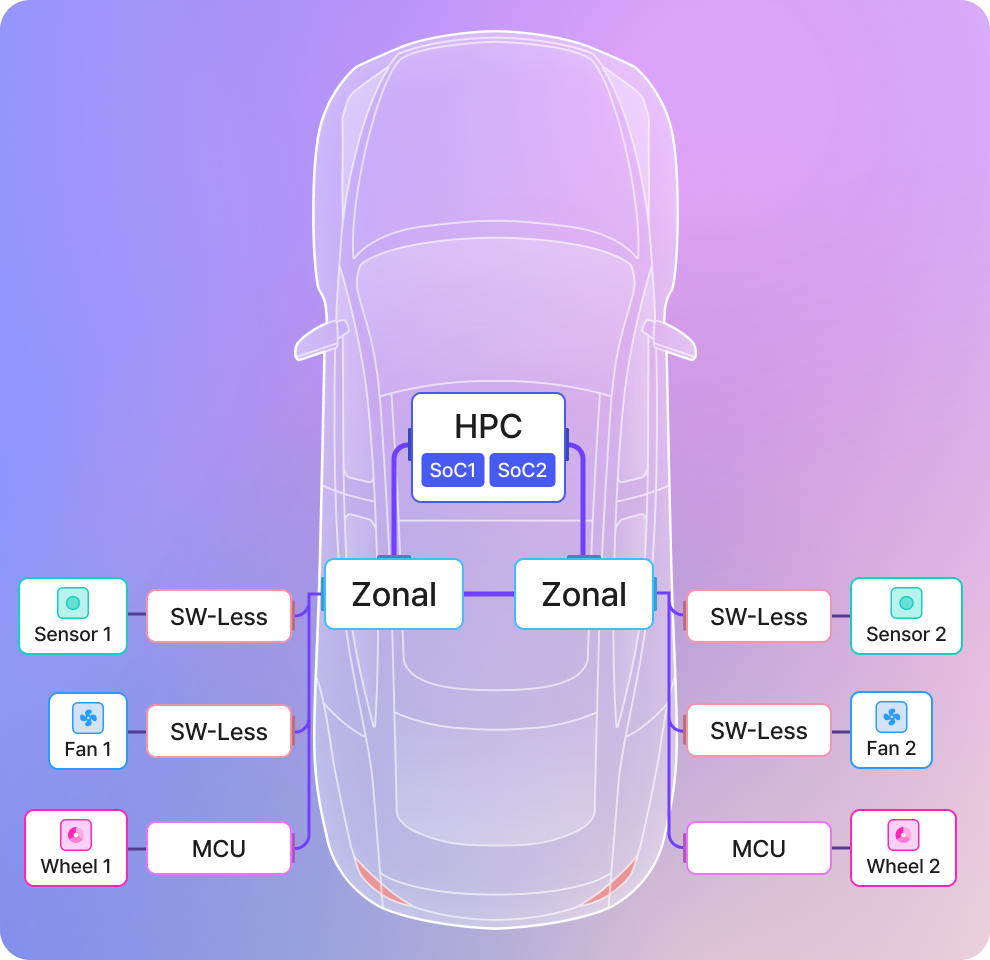
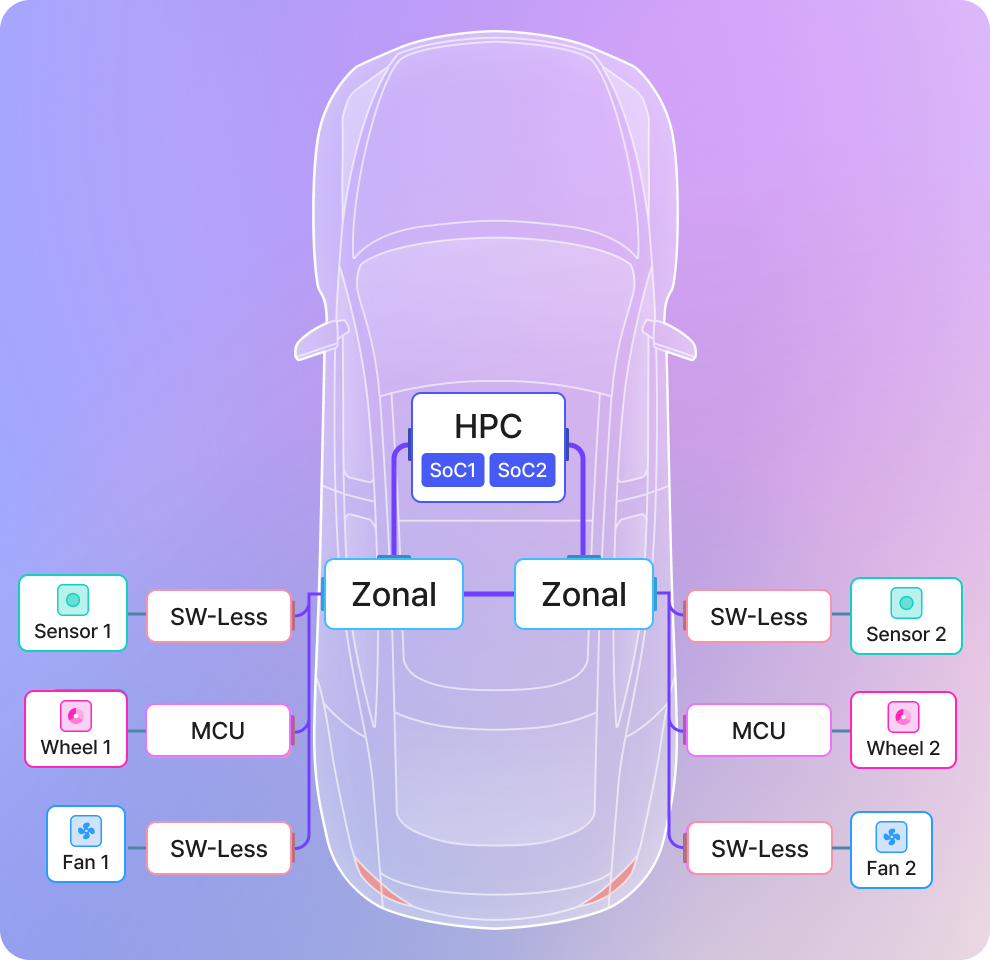
change position wheesl & fans

diff --git a/src/components/VehicleArea.css b/src/components/VehicleArea.css
@@ -119,14 +119,33 @@
   border-radius: 50%;
 }
 
-#vehicle-area .mcu-1 {
-  left: 272px;
-  top: 811px;
+#vehicle-area .mcu-status-black {
+  position: absolute;
+  width: 30px;
+  height: 30px;
+
+  background: #000000;
+  border-radius: 50%;
 }
 
-#vehicle-area .mcu-2 {
-  left: 812px;
-  top: 811px;
+#vehicle-area .mcu-less-1-rtt {
+  position: absolute;
+  /* width: 56px; */
+  height: 22px;
+  left: 191px;
+  top: 563px;
+
+  font-family: 'Pretendard';
+  font-style: normal;
+  font-weight: 500;
+  font-size: 24px;
+  line-height: 22px;
+  /* identical to box height, or 92% */
+  display: flex;
+  align-items: center;
+  text-align: center;
+
+  color: #1d1d1d;
 }
 
 #vehicle-area .mcu-less-1 {
@@ -134,17 +153,137 @@
   top: 579px;
 }
 
+#vehicle-area .mcu-less-2-rtt {
+  /* 65us */
+
+  position: absolute;
+  /* width: 56px; */
+  height: 22px;
+  left: 731px;
+  top: 561px;
+
+  font-family: 'Pretendard';
+  font-style: normal;
+  font-weight: 500;
+  font-size: 24px;
+  line-height: 22px;
+  /* identical to box height, or 92% */
+  display: flex;
+  align-items: center;
+  text-align: center;
+
+  color: #1d1d1d;
+}
+
 #vehicle-area .mcu-less-2 {
   left: 812px;
   top: 579px;
 }
 
-#vehicle-area .mcu-less-3 {
+#vehicle-area .mcu-1-rtt {
+  /* 65us */
+
+  position: absolute;
+  /* width: 56px; */
+  height: 22px;
+  left: 191px;
+  top: 679px;
+
+  font-family: 'Pretendard';
+  font-style: normal;
+  font-weight: 500;
+  font-size: 24px;
+  line-height: 22px;
+  /* identical to box height, or 92% */
+  display: flex;
+  align-items: center;
+  text-align: center;
+
+  color: #1d1d1d;
+}
+
+#vehicle-area .mcu-1 {
   left: 272px;
   top: 694px;
 }
 
-#vehicle-area .mcu-less-4 {
+#vehicle-area .mcu-2-rtt {
+  /* 65us */
+
+  position: absolute;
+  /* width: 56px; */
+  height: 22px;
+  left: 731px;
+  top: 677px;
+
+  font-family: 'Pretendard';
+  font-style: normal;
+  font-weight: 500;
+  font-size: 24px;
+  line-height: 22px;
+  /* identical to box height, or 92% */
+  display: flex;
+  align-items: center;
+  text-align: center;
+
+  color: #1d1d1d;
+}
+
+#vehicle-area .mcu-2 {
   left: 812px;
   top: 693px;
+}
+
+#vehicle-area .mcu-less-3-rtt {
+  /* 65us */
+
+  position: absolute;
+  /* width: 56px; */
+  height: 22px;
+  left: 191px;
+  top: 795px;
+
+  font-family: 'Pretendard';
+  font-style: normal;
+  font-weight: 500;
+  font-size: 24px;
+  line-height: 22px;
+  /* identical to box height, or 92% */
+  display: flex;
+  align-items: center;
+  text-align: center;
+
+  color: #1d1d1d;
+}
+
+#vehicle-area .mcu-less-3 {
+  left: 272px;
+  top: 811px;
+}
+
+#vehicle-area .mcu-less-4-rtt {
+  /* 65us */
+
+  position: absolute;
+  /* width: 56px; */
+  height: 22px;
+  left: 731px;
+  top: 793px;
+
+  font-family: 'Pretendard';
+  font-style: normal;
+  font-weight: 500;
+  font-size: 24px;
+  line-height: 22px;
+  /* identical to box height, or 92% */
+  display: flex;
+  align-items: center;
+  text-align: center;
+
+  color: #1d1d1d;
+}
+
+#vehicle-area .mcu-less-4 {
+  left: 812px;
+  top: 811px;
 }

diff --git a/src/pages/RuntimeMonitoring.tsx b/src/pages/RuntimeMonitoring.tsx
@@ -4,6 +4,11 @@ import { getNetworkInfo } from '../utils/RestApi';
 import './RuntimeMonitoring.css';
 import { useEffect, useRef, useState } from 'react';
 
+interface MCUStatus {
+  status: 'on' | 'off';
+  rtt: number;
+}
+
 interface RuntimeMonitoringProps {}
 
 const RuntimeMonitoring = ({}: RuntimeMonitoringProps) => {
@@ -23,6 +28,14 @@ const RuntimeMonitoring = ({}: RuntimeMonitoringProps) => {
     title: 'Sync Offset 2',
     value: Array(30).fill(0),
   });
+  const [mcuStatus, setMcuStatus] = useState<MCUStatus[]>([
+    { status: 'off', rtt: 0 }, // MCULess1
+    { status: 'off', rtt: 0 }, // MCULess2
+    { status: 'off', rtt: 0 }, // MCU1
+    { status: 'off', rtt: 0 }, // MCU2
+    { status: 'off', rtt: 0 }, // MCULess3
+    { status: 'off', rtt: 0 }, // MCULess4
+  ]);
   const timerRef = useRef<number | null>(null);
 
   const pushValue = (arr: number[], newValue: number) => {
@@ -41,6 +54,34 @@ const RuntimeMonitoring = ({}: RuntimeMonitoringProps) => {
         const offset1 = response?.NetworkInfo.Graph?.MCU1?.TimesyncOffset ?? 0;
         const offset2 = response?.NetworkInfo.Graph?.MCU2?.TimesyncOffset ?? 0;
 
+        // MCU 상태 및 RTT 정보 업데이트
+        const newMcuStatus: MCUStatus[] = [
+          {
+            status: response?.NetworkInfo.RttInfo?.MCULess1?.status ?? 'off',
+            rtt: response?.NetworkInfo.RttInfo?.MCULess1?.rtt ?? 0,
+          },
+          {
+            status: response?.NetworkInfo.RttInfo?.MCULess2?.status ?? 'off',
+            rtt: response?.NetworkInfo.RttInfo?.MCULess2?.rtt ?? 0,
+          },
+          {
+            status: response?.NetworkInfo.RttInfo?.MCU1?.status ?? 'off',
+            rtt: response?.NetworkInfo.RttInfo?.MCU1?.rtt ?? 0,
+          },
+          {
+            status: response?.NetworkInfo.RttInfo?.MCU2?.status ?? 'off',
+            rtt: response?.NetworkInfo.RttInfo?.MCU2?.rtt ?? 0,
+          },
+          {
+            status: response?.NetworkInfo.RttInfo?.MCULess3?.status ?? 'off',
+            rtt: response?.NetworkInfo.RttInfo?.MCULess3?.rtt ?? 0,
+          },
+          {
+            status: response?.NetworkInfo.RttInfo?.MCULess4?.status ?? 'off',
+            rtt: response?.NetworkInfo.RttInfo?.MCULess4?.rtt ?? 0,
+          },
+        ];
+
         setDistanceData((prev) => ({
           ...prev,
           value: pushValue(prev.value, distance),
@@ -57,6 +98,7 @@ const RuntimeMonitoring = ({}: RuntimeMonitoringProps) => {
           ...prev,
           value: pushValue(prev.value, offset2),
         }));
+        setMcuStatus(newMcuStatus);
       } catch (e) {
         // 에러 처리
       }
@@ -73,7 +115,7 @@ const RuntimeMonitoring = ({}: RuntimeMonitoringProps) => {
 
   return (
     <div id="runtime-monitoring">
-      <VehicleArea />
+      <VehicleArea mcuStatus={mcuStatus} />
       <ChartsArea
         distanceData={distanceData}
         pwmDutyData={pwmDutyData}

diff --git a/src/components/VehicleArea.tsx b/src/components/VehicleArea.tsx
@@ -1,9 +1,21 @@
 import './VehicleArea.css';
-import { postFanStart, postFanClear, postFanAccel, postFanDeaccel } from '../utils/RestApi';
+import {
+  postFanStart,
+  postFanClear,
+  postFanAccel,
+  postFanDeaccel,
+} from '../utils/RestApi';
 
-interface VehicleAreaProps {}
+interface MCUStatus {
+  status: 'on' | 'off';
+  rtt: number;
+}
 
-const VehicleArea = ({}: VehicleAreaProps) => {
+interface VehicleAreaProps {
+  mcuStatus: MCUStatus[];
+}
+
+const VehicleArea = ({ mcuStatus }: VehicleAreaProps) => {
   const handleFanStart = async () => {
     try {
       await postFanStart();
@@ -37,12 +49,47 @@ const VehicleArea = ({}: VehicleAreaProps) => {
         <div className="wheela-auto"></div>
         <div className="wheela-cali"></div>
       </div>
-      <div className="mcu-less-1 mcu-status-green"></div>
-      <div className="mcu-less-2 mcu-status-green"></div>
-      <div className="mcu-less-3 mcu-status-green"></div>
-      <div className="mcu-less-4 mcu-status-green"></div>
-      <div className="mcu-1 mcu-status-black"></div>
-      <div className="mcu-2 mcu-status-green"></div>
+      <div className="mcu-less-1-rtt">{mcuStatus[0].rtt}μs</div>
+      <div
+        className={`mcu-less-1 ${
+          mcuStatus[0].status === 'on' ? 'mcu-status-green' : 'mcu-status-black'
+        }`}
+      ></div>
+
+      <div className="mcu-less-2-rtt">{mcuStatus[1].rtt}μs</div>
+      <div
+        className={`mcu-less-2 ${
+          mcuStatus[1].status === 'on' ? 'mcu-status-green' : 'mcu-status-black'
+        }`}
+      ></div>
+
+      <div className="mcu-1-rtt">{mcuStatus[2].rtt}μs</div>
+      <div
+        className={`mcu-1 ${
+          mcuStatus[2].status === 'on' ? 'mcu-status-green' : 'mcu-status-black'
+        }`}
+      ></div>
+
+      <div className="mcu-2-rtt">{mcuStatus[3].rtt}μs</div>
+      <div
+        className={`mcu-2 ${
+          mcuStatus[3].status === 'on' ? 'mcu-status-green' : 'mcu-status-black'
+        }`}
+      ></div>
+
+      <div className="mcu-less-3-rtt">{mcuStatus[4].rtt}μs</div>
+      <div
+        className={`mcu-less-3 ${
+          mcuStatus[4].status === 'on' ? 'mcu-status-green' : 'mcu-status-black'
+        }`}
+      ></div>
+
+      <div className="mcu-less-4-rtt">{mcuStatus[5].rtt}μs</div>
+      <div
+        className={`mcu-less-4 ${
+          mcuStatus[5].status === 'on' ? 'mcu-status-green' : 'mcu-status-black'
+        }`}
+      ></div>
     </div>
   );
 };
